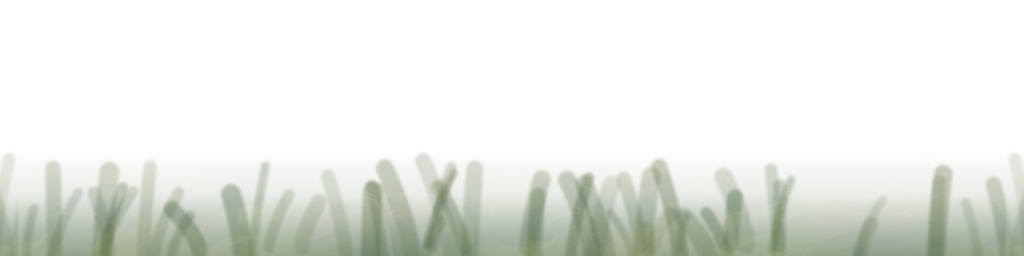
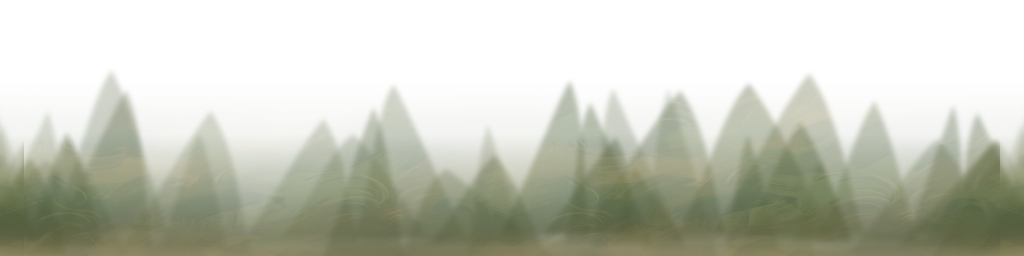
art: refresh trackside grass fringe

diff --git a/src/game/renderer-3d.ts b/src/game/renderer-3d.ts
@@ -167,7 +167,7 @@ function buildMaterials(T: Record<TexKey, THREE.Texture>) {
     grassFringe: new THREE.MeshStandardMaterial({
       map: T.grassFringe,
       transparent: true,
-      alphaTest: 0.12,
+      alphaTest: 0.055,
       roughness: 0.92,
       side: THREE.DoubleSide,
       depthWrite: false,
@@ -936,12 +936,14 @@ function buildTrackSurface(track: TrackData, M: Materials, scene: THREE.Scene) {
 
   // Natural grass fringe along the road shoulders: breaks up hard geometric edges
   const grassFringeStage = (s: TrackSample) => !s.onBridge && !s.inLoop && (s.stage === 'alpine' || s.stage === 'canyon' || s.stage === 'zigzag');
-  const FRINGE_L = [P(-1, -120, -6), P(-1, 25, 2)];
-  const FRINGE_R = [P(1, 120, -6), P(1, -25, 2)];
+  // A broad, translucent paint bridge is more natural than a thin row of grass
+  // blades. It overlaps both the verge and a small amount of road surface.
+  const FRINGE_L = [P(-1, -210, -7), P(-1, 35, 3)];
+  const FRINGE_R = [P(1, 210, -7), P(1, -35, 3)];
 
   rangesWhere(samples, grassFringeStage).forEach(([a, b]) => {
-    scene.add(sweepProfile(samples, a, b, FRINGE_L, M.grassFringe, { texScale: 550, stride: 2, uvMode: 'fringe' }));
-    scene.add(sweepProfile(samples, a, b, FRINGE_R, M.grassFringe, { texScale: 550, stride: 2, uvMode: 'fringe' }));
+    scene.add(sweepProfile(samples, a, b, FRINGE_L, M.grassFringe, { texScale: 900, stride: 2, uvMode: 'fringe' }));
+    scene.add(sweepProfile(samples, a, b, FRINGE_R, M.grassFringe, { texScale: 900, stride: 2, uvMode: 'fringe' }));
   });
 }
 
